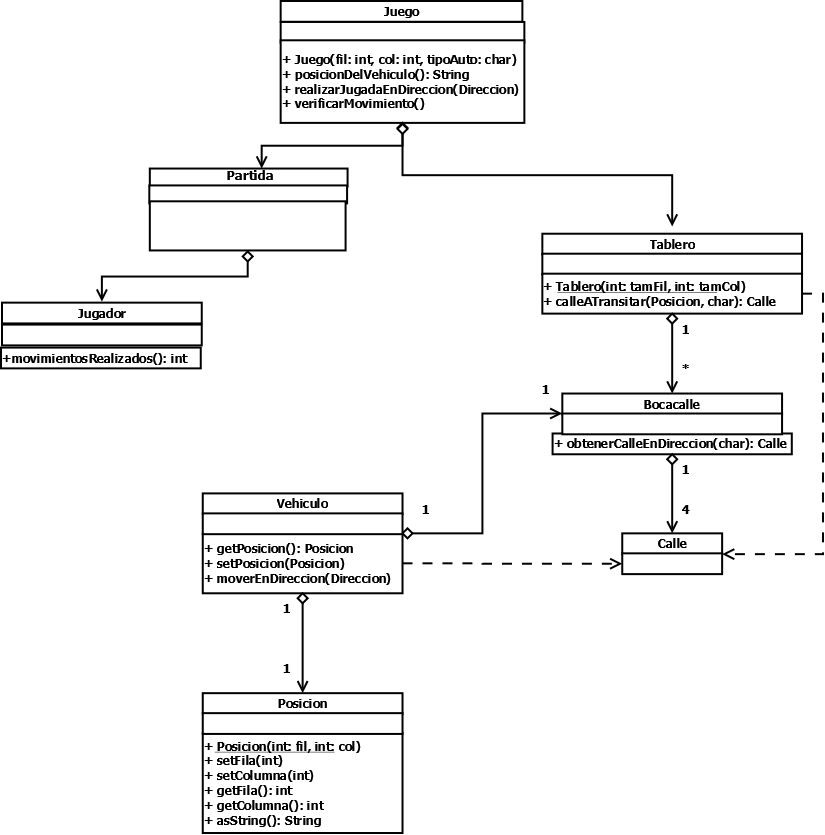
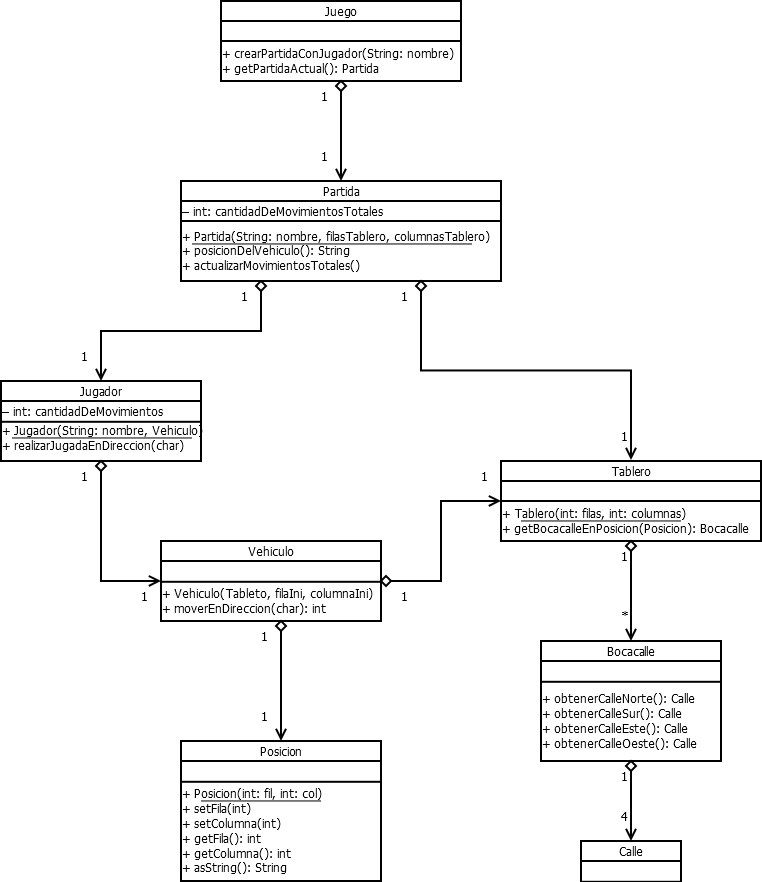
Actualizacion de diagramas. 2 test nuevos y un par de modificaciones menores.

Changed region(s): [[0.0, 0.0, 1.0, 1.0], [0.5131, 0.3114, 0.5735, 0.3425]]

diff --git a/test/modeloTests/JugadorTest.java b/test/modeloTests/JugadorTest.java
@@ -2,35 +2,63 @@ package modeloTests;
 
 import static org.junit.Assert.*;
 import modelo.Jugador;
+import modelo.Tablero;
 import modelo.Vehiculo;
+import modelo.excepciones.MovimientoInvalidoExcepcion;
+
 import org.junit.Test;
 
 public class JugadorTest {
 
-		@Test
-		public void testVehiculoNuevoNoDeberiaSerNulo() {
-			Jugador unJugador = new Jugador("Juansito", new Vehiculo());
-			assertNotNull(unJugador);
-		}
+	@Test
+	public void testVehiculoNuevoNoDeberiaSerNulo() {
+		Jugador unJugador = new Jugador("Juansito", new Vehiculo());
+		assertNotNull(unJugador);
+	}
 
-		@Test
-		public void testJugadorDeberiaCrearseConNombreIndicado() {
-			Jugador unJugador = new Jugador("Juansito", new Vehiculo());
-			assertEquals(unJugador.getNickName(),"Juansito");
-		}
+	@Test
+	public void testJugadorDeberiaCrearseConNombreIndicado() {
+		Jugador unJugador = new Jugador("Juansito", new Vehiculo());
+		assertEquals(unJugador.getNickName(),"Juansito");
+	}
 
-		@Test
-		public void testJugadorNuevoDeberiaCrearseConNingunMovimiento() {
-			Jugador unJugador = new Jugador("Juansito", new Vehiculo());
-			assertEquals(unJugador.getCantidadDeMovimientos(),0);
-		}
+	@Test
+	public void testJugadorNuevoDeberiaCrearseConNingunMovimiento() {
+		Jugador unJugador = new Jugador("Juansito", new Vehiculo());
+		assertEquals(unJugador.getCantidadDeMovimientos(),0);
+	}
 
-		@Test
-		public void testSumarMovimientosAUnJugadorDeberiaAumentarCantidadDeMovimientos() {
-			Jugador unJugador = new Jugador("Juansito", new Vehiculo());
-			unJugador.sumarMovimientos(5);
-			unJugador.sumarMovimientos(3);
-			assertEquals(unJugador.getCantidadDeMovimientos(),8);
-		}
+	@Test
+	public void testSumarMovimientosAUnJugadorDeberiaAumentarCantidadDeMovimientos() {
+		Jugador unJugador = new Jugador("Juansito", new Vehiculo());
+		unJugador.sumarMovimientos(5);
+		unJugador.sumarMovimientos(3);
+		assertEquals(unJugador.getCantidadDeMovimientos(),8);
+	}
 
+	@Test
+	public void testFuncionamientoDeMovimientos() throws MovimientoInvalidoExcepcion {
+		Tablero tablero = new Tablero(5,5);
+		Vehiculo vehiculo = new Vehiculo(tablero,3,0);
+		Jugador unJugador = new Jugador("Juansito", vehiculo);
+		unJugador.realizarJugadaEnDireccion('E');
+		unJugador.realizarJugadaEnDireccion('N');
+		unJugador.realizarJugadaEnDireccion('E');
+		unJugador.realizarJugadaEnDireccion('S');
+		assertEquals(vehiculo.getPosicion().asString(),"3,2");
+		assertEquals(unJugador.getCantidadDeMovimientos(),4);
+	}
+
+	@Test
+	public void testFuncionamientoDeExcepcion() throws MovimientoInvalidoExcepcion {
+		Tablero tablero = new Tablero(5,5);
+		Vehiculo vehiculo = new Vehiculo(tablero,1,2);
+		Jugador unJugador = new Jugador("Juansito", vehiculo);
+		unJugador.realizarJugadaEnDireccion('O');
+		unJugador.realizarJugadaEnDireccion('N');
+		try {	unJugador.realizarJugadaEnDireccion('N');
+				fail ("Excepcion esperada");
+			} catch (MovimientoInvalidoExcepcion expect) {};
+		assertEquals(unJugador.getCantidadDeMovimientos(),2);
+	}
 }

diff --git a/src/modelo/Tablero.java b/src/modelo/Tablero.java
@@ -36,15 +36,15 @@ public class Tablero {
 		}
 	}
 
-	public Bocacalle getBocacalleEnPosicion(Posicion posicion){
+	public Bocacalle getBocacalleEnPosicion(Posicion posicion) {
 		return bocacalles.get(posicion.getFila()).get(posicion.getColumna());
 	}
 
-	public int getCantidadDeFilas(){
+	public int getCantidadDeFilas() {
 		return cantidadDeFilas;
 	}
 
-	public int getCantidadDeColumnas(){
+	public int getCantidadDeColumnas() {
 		return cantidadDeColumnas;
 	}
 

diff --git a/src/modelo/Jugador.java b/src/modelo/Jugador.java
@@ -31,7 +31,7 @@ public class Jugador {
 	}
 
 	public void realizarJugadaEnDireccion(char direccion) throws MovimientoInvalidoExcepcion {
-		this.cantidadDeMovimientos = this.cantidadDeMovimientos + this.vehiculo.moverEnDireccion(direccion);
+		sumarMovimientos(this.vehiculo.moverEnDireccion(direccion));
 	}
-	
+
 }

diff --git a/src/modelo/Juego.java b/src/modelo/Juego.java
@@ -8,7 +8,7 @@ public class Juego {
 		partida = new Partida(nombre,10,10);
 	}
 
-	public Partida obtenerPartidaActual() {
+	public Partida getPartidaActual() {
 		return this.partida;
 	}
 
